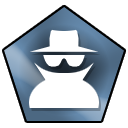
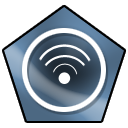
Ninja counters Recon, instead of Recon countering Recon

Changed region(s): [[0.1562, 0.2188, 0.8438, 0.9062]]

diff --git a/source/src/renderhud.cpp b/source/src/renderhud.cpp
@@ -485,7 +485,7 @@ void drawradar(playerent *p, int w, int h)
 	glTranslatef(-(centerpos.x-res/2)/worldsize*radarsize, -(centerpos.y-res/2)/worldsize*radarsize, 0);
 	glBlendFunc(GL_SRC_ALPHA, GL_ONE_MINUS_SRC_ALPHA);
 
-	drawradarent(fixradarpos(p->o, centerpos, res), coordtrans, p->yaw, p->state!=CS_DEAD ? (isattacking(p) ? 2 : 0) : 1, 2, iconsize, isattacking(p) ? 1 : 0, p->state==CS_DEAD ? .5f : p->perk1 == PERK_RADAR ? .35f : 1, "\f1%s", colorname(p)); // local player
+	drawradarent(fixradarpos(p->o, centerpos, res), coordtrans, p->yaw, p->state!=CS_DEAD ? (isattacking(p) ? 2 : 0) : 1, 2, iconsize, isattacking(p) ? 1 : 0, p->state==CS_DEAD ? .5f : 1, "\f1%s", colorname(p)); // local player
 
 	// radar check
 	const bool hasradar = radarup(p);
@@ -498,12 +498,12 @@ void drawradar(playerent *p, int w, int h)
 		if(!force && pl->state != CS_DEAD && !isteam(p, pl)){
 			int taggedmillis = 0;
 			extern bool IsVisible(vec v1, vec v2, dynent *tracer = NULL, bool SkipTags=false);
-			if(pl->perk1 != PERK_RADAR){
+			if(pl->perk1 != PERK_NINJA){
 				if(p->perk2 == PERK_RADAR && IsVisible(p->o, pl->o)) taggedmillis = 750;
 				else loopvj(players){
 					playerent *pll = players[j];
 					if(!pll || p == pll || !isteam(p, pll) || pll->state == CS_DEAD || pll->perk2 != PERK_RADAR) continue;
-					if(IsVisible(pll->o, pl->o)) { taggedmillis = 250; break;}
+					if(IsVisible(pll->o, pl->o)) { taggedmillis = 500; break;}
 				}
 			}
 			if(taggedmillis){

diff --git a/source/src/texture.cpp b/source/src/texture.cpp
@@ -592,7 +592,7 @@ Texture **geteventicons(){
 Texture **getperktex1(){
 	static Texture *tex[PERK1_MAX];
 	if(!*tex){
-		const char *texname[PERK1_MAX] = { "none", "radar", "power", "time", "speed", "hand", "light", "point", };
+		const char *texname[PERK1_MAX] = { "none", "radar", "ninja", "power", "time", "speed", "hand", "light", "point", };
 		loopi(PERK1_MAX){
 			defformatstring(tname)("packages/misc/perks/%s.png", texname[i]);
 			tex[i] = textureload(tname);
@@ -604,7 +604,7 @@ Texture **getperktex1(){
 Texture **getperktex2(){
 	static Texture *tex[PERK2_MAX];
 	if(!*tex){
-		const char *texname[PERK2_MAX] = { "none", "radar", "power", "time", "vision", "streak", "steady", "health", };
+		const char *texname[PERK2_MAX] = { "none", "radar", "ninja", "power", "time", "vision", "streak", "steady", "health", };
 		loopi(PERK2_MAX){
 			defformatstring(tname)("packages/misc/perks/%s.png", texname[i]);
 			tex[i] = textureload(tname);

diff --git a/source/src/sound.cpp b/source/src/sound.cpp
@@ -1610,7 +1610,7 @@ void updateplayerfootsteps(playerent *p)
 	bool local = (p == camera1);
 	bool inrange = footsteps && (local || (camera1->o.dist(p->o) < footstepradius));
 
-	if(!footsteps || (local && !localfootsteps) || !inrange || p->state != CS_ALIVE || lastmillis-p->lastpain < 300 || (!p->onfloor && p->timeinair>50) || (!p->move && !p->strafe) || p->inwater)
+	if(!footsteps || (local && !localfootsteps) || !inrange || p->state != CS_ALIVE || p->perk2 == PERK_NINJA || lastmillis-p->lastpain < 300 || (!p->onfloor && p->timeinair>50) || (!p->move && !p->strafe) || p->inwater)
 	{
 		const int minplaytime = 200;
 		loopi(sizeof(locs)/sizeof(locs[0]))

diff --git a/source/src/entity.h b/source/src/entity.h
@@ -138,7 +138,7 @@ extern const bool isheadshot(int weapon, int style);
 extern const int toobit(int weap, int style);
 extern const char *killname(int obit, bool headshot);
 
-enum { PERK_NONE = 0, PERK_RADAR, PERK_POWER, PERK_TIME, PERK_MAX };
+enum { PERK_NONE = 0, PERK_RADAR, PERK_NINJA, PERK_POWER, PERK_TIME, PERK_MAX };
 enum { PERK1_NONE = 0, PERK1_AGILE = PERK_MAX, PERK1_HAND, PERK1_LIGHT, PERK1_SCORE, PERK1_MAX, };
 enum { PERK2_NONE = 0, PERK2_VISION = PERK_MAX, PERK2_STREAK, PERK2_STEADY, PERK2_HEALTHY, PERK2_MAX };
 
